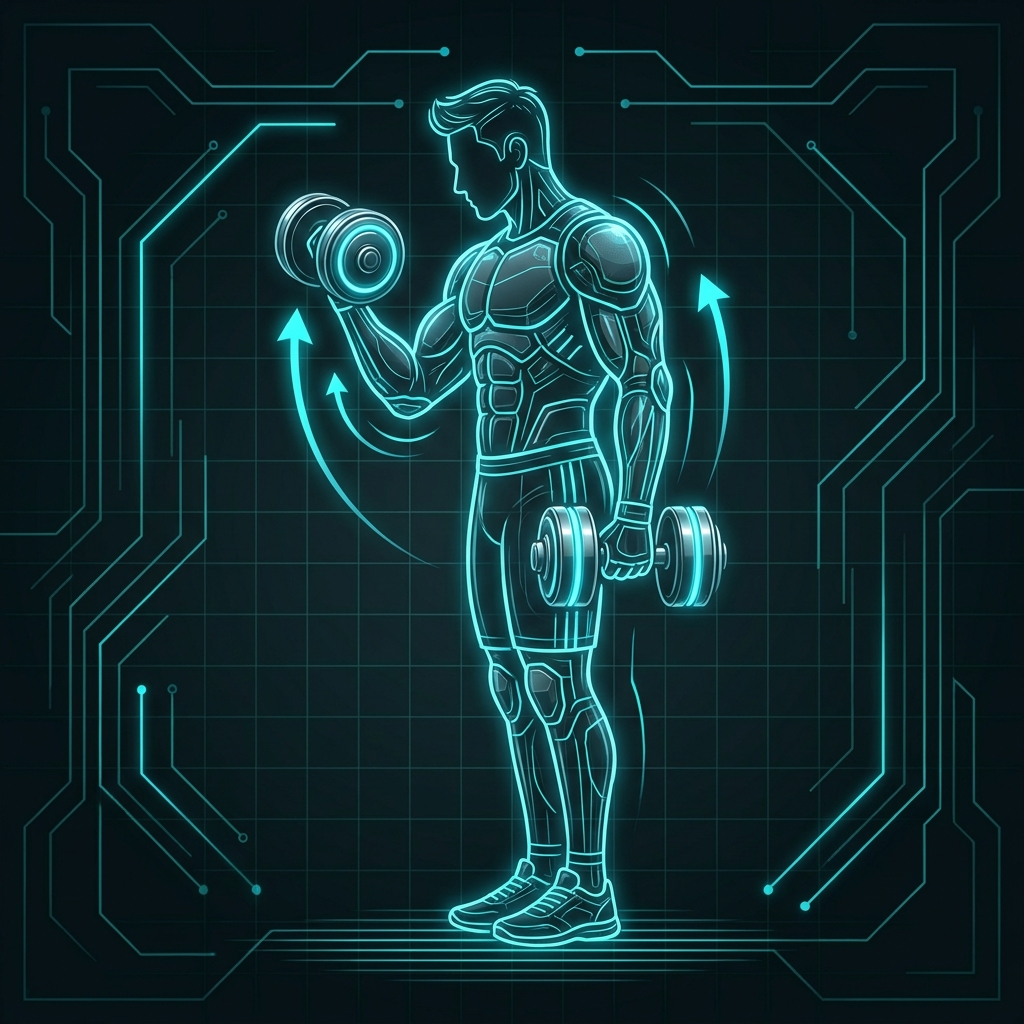
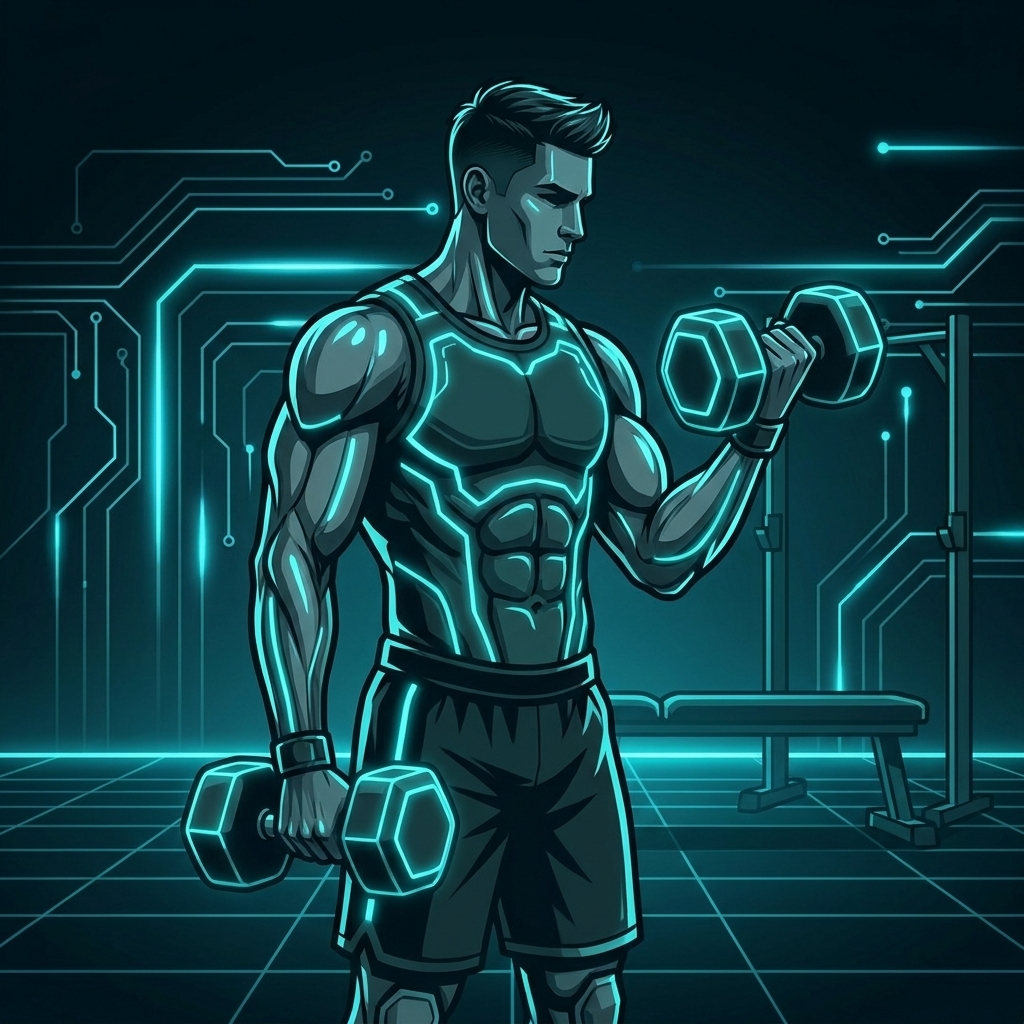
v2.8.1: 14 Übungsbilder korrigiert, Pullover-Beschreibung längs/quer, Capacitor 6.2.2; VERSION_CODE 12
- Bilder-Prüfung 04.10.2026 (Nutzer-Hinweis Chin-up, Row, Hammer Curl): 13 von 32
  Bildern zeigten Pose oder Gerät falsch (z. B. Langhantel bei RDL/Hip Thrust,
  Obergriff beim Chin-up), Bild 8 war ein Stil-Ausreißer. Neu erzeugt mit
  Beschreibung + Posen-Vorgabe + Stilvorlagen (3, 19, 28), jeder Kandidat gegen
  die Beschreibung geprüft: 1, 8, 9, 11, 12, 13, 14, 16, 17, 20, 21, 23, 30, 31.
- Kurzhantel Pullover: Beschreibung DE/EN erlaubt längs oder quer (Gemini setzt
  die Querlage nicht um, längs ist eine übliche Variante).
- Capacitor 6.2.1 -> 6.2.2 (Review wie Ausgaben-Tracker v1.11: nur Proxy-Sperre
  in Bridge.java/WebViewLocalServer.java), Pin auch für @capacitor/cli.
- make-release.sh: Fingerprint-Zeile im Release-Text englisch wie der Rest.
- Kein FLAG_SECURE (Entscheidung Nutzer 04.10.2026). E2E grün, APK-Endkontrolle,
  Gerätetest Start/Training.

Claude-Session: https://claude.ai/code/session_01NLW1xB1PU7XbNQjogPRxPs

diff --git a/public/app.js b/public/app.js
@@ -3,7 +3,7 @@
 // Versionsanzeige (unten in der Anleitung). Einzige Quelle ist die VERSION-Datei:
 // apk/build-www.sh setzt diese Konstante beim APK-Build aus VERSION_NAME, e2e-test.mjs
 // prüft den Abgleich. Beim Web-Redeploy ebenfalls mit VERSION_NAME synchron halten.
-const APP_VERSION = '2.8.0';
+const APP_VERSION = '2.8.1';
 
 // ── Offline-Datenschicht ────────────────────────────────────────────────────────
 // Die App läuft rein lokal: Stammdaten aus der gebündelten seed.json, der
